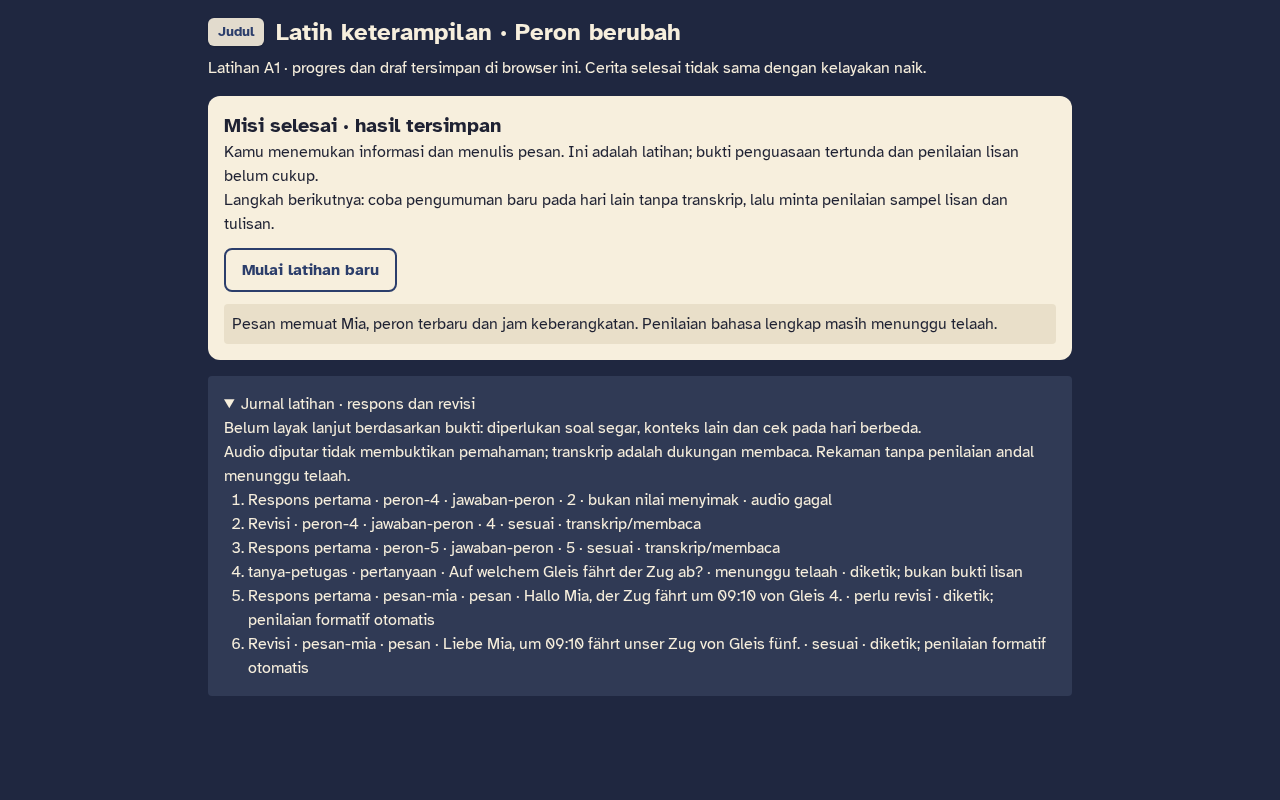
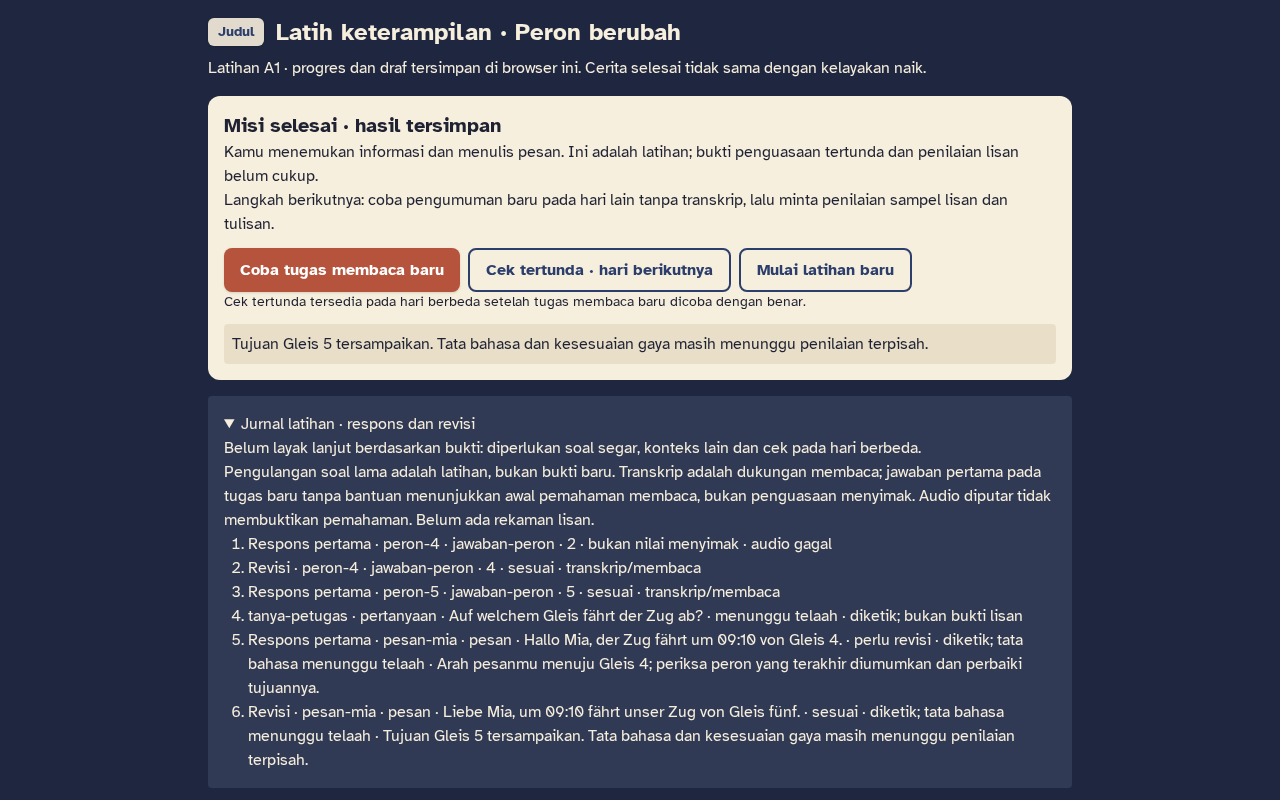
Pulihkan ruang belajar web dan tambah transfer peron

Changed region(s): [[0.1562, 0.3125, 0.8438, 0.9688]]

diff --git a/src/arena/components/StationMission.tsx b/src/arena/components/StationMission.tsx
@@ -1,4 +1,5 @@
 import { useEffect, useRef, useState } from "react";
+import { assessPlatformMessage } from "../engine/message";
 import { readiness, type Evidence } from "../engine/readiness";
 import announcement4 from "../../klab/novel/assets/voices/story/a1-ch11/speech/s02/a1-ch11-s02-a1-u11-o4-transisi-01-petugas-stasiun.mp3";
 import announcement5 from "../../klab/novel/assets/voices/story/a1-ch11/speech/s02/a1-ch11-s02-a1-u11-o4-pengumuman-variasi-01-petugas-stasiun.mp3";
@@ -6,20 +7,12 @@ import ticket from "../../../arena-pilot/media/tiket.webp";
 import board from "../../../arena-pilot/media/papan-peron.webp";
 
 // Cerita dan bukti disimpan terpisah dari progres prolog lama; rekaman tidak disimpan.
-type Phase = "ticket" | "listen4" | "listen5" | "ask" | "message" | "result";
-type Event = { kind: string; stimulus: string; value: string; at: number; support?: string; correct?: boolean };
-type Mission = { phase: Phase; answer: string; question: string; message: string; transcript: Record<string, boolean>; played: Record<string, boolean>; failed: Record<string, boolean>; events: Event[] };
+type Phase = "ticket" | "listen4" | "listen5" | "ask" | "message" | "result" | "transfer" | "delayed";
+type Event = { kind: string; stimulus: string; value: string; at: number; support?: string; correct?: boolean; reason?: string; assessment?: string };
+type Mission = { phase: Phase; answer: string; question: string; message: string; transcript: Record<string, boolean>; played: Record<string, boolean>; failed: Record<string, boolean>; events: Event[]; transferFresh?: boolean };
 const key = "lernen.station.v1";
 const fresh = (): Mission => ({phase:"ticket",answer:"",question:"",message:"",transcript:{},played:{},failed:{},events:[]});
-function load(): Mission { try { const v = JSON.parse(localStorage.getItem(key) || "null"); return v && Array.isArray(v.events) && ["ticket","listen4","listen5","ask","message","result"].includes(v.phase) ? {...fresh(), ...v} : fresh(); } catch { return fresh(); } }
-function checkMessage(s: string): string {
-  const t = s.toLocaleLowerCase("de").replace(/ß/g,"ss").replace(/\s+/g," ");
-  if (!/mia/.test(t)) return "Sebutkan penerima Mia dalam pesan.";
-  if (/\b(nicht|kein|keine)\b/.test(t) || /(gleis|bahnsteig)\s*(2|3|4|zwei|drei|vier)\b/.test(t) || /10[:.]25/.test(t)) return "Pesan memuat informasi yang bertentangan. Periksa peron terbaru dan jam keberangkatan.";
-  if (!/(gleis|bahnsteig)/.test(t) || !/(\b5\b|fünf|fuenf)/.test(t)) return "Peron terakhir adalah Gleis fünf. Periksa nomor dan sebutkan peronnya.";
-  if (!/(09[:. ]?10|9[:. ]?10|neun\s+(uhr\s+)?zehn)/.test(t)) return "Periksa jam keberangkatan pada tiket: 09:10.";
-  return "";
-}
+function load(): Mission { try { const v = JSON.parse(localStorage.getItem(key) || "null"); return v && Array.isArray(v.events) && ["ticket","listen4","listen5","ask","message","result","transfer","delayed"].includes(v.phase) ? {...fresh(), ...v} : fresh(); } catch { return fresh(); } }
 export function StationMission({ onBack, soundOn }: {onBack: () => void; soundOn: boolean}) {
   const [data, setData] = useState<Mission>(load);
   const current = useRef(data); current.current = data;
@@ -81,15 +74,30 @@ export function StationMission({ onBack, soundOn }: {onBack: () => void; soundOn
   }
   function submitMessage() {
     if (locked.current || current.current.phase!=="message" || !data.message.trim() || lastMessage.current===data.message.trim()) return;
-    lastMessage.current=data.message.trim(); locked.current=true; const problem=checkMessage(data.message); update(v=>({...v,phase:problem?"message":"result",events:[...v.events,event("pesan","pesan-mia",v.message,{support:"diketik; penilaian formatif otomatis",correct:!problem})]})); setFeedback(problem || "Pesan memuat Mia, peron terbaru dan jam keberangkatan. Penilaian bahasa lengkap masih menunggu telaah.");queueMicrotask(()=>locked.current=false);
+    lastMessage.current=data.message.trim(); locked.current=true; const assessed=assessPlatformMessage(data.message,5); const usedFeedback=data.events.some(e=>e.kind==="pesan" && e.assessment && e.assessment!=="correct"); update(v=>({...v,phase:assessed.status === "correct"?"result":"message",events:[...v.events,event("pesan","pesan-mia",v.message,{support:usedFeedback?"diketik · memakai umpan balik · tata bahasa menunggu telaah":"diketik · tanpa umpan balik · tata bahasa menunggu telaah",correct:assessed.status === "ambiguous" ? undefined : assessed.status === "correct",assessment:assessed.status,reason:assessed.reason})]})); setFeedback(assessed.reason);queueMicrotask(()=>locked.current=false);
   }
+  function openTransfer(delayed: boolean) {
+    const id=delayed ? "transfer-bus-6" : "transfer-koeln-7";
+    update(v=>({...v,phase:delayed ? "delayed" : "transfer",answer:"",transferFresh:!v.events.some(e=>e.stimulus===id && e.kind==="paparan-transfer"),events:[...v.events,event("paparan-transfer",id,"materi dibuka",{support:"membaca"})]}));setFeedback("");
+  }
+  function answerTransfer() {
+    if (locked.current || !["transfer","delayed"].includes(current.current.phase) || !data.answer.trim()) return;
+    locked.current=true; const delayed=data.phase === "delayed"; const id=delayed?"transfer-bus-6":"transfer-koeln-7"; const answer=data.answer.trim().toLowerCase(); const correct=delayed ? ["6","sechs"].includes(answer) : ["7","sieben"].includes(answer);
+    const first=!data.events.some(e=>e.kind==="jawaban-transfer" && e.stimulus===id);
+    const support=first && data.transferFresh ? "stimulus baru · membaca" : "pengulangan/latihan · membaca";
+    update(v=>({...v,phase:correct?"result":v.phase,answer:"",events:[...v.events,event("jawaban-transfer",id,answer,{correct,support,reason:correct?"Tujuan pada informasi baru terbaca benar.":"Bandingkan peron lama dengan peron yang tercantum setelah perubahan."})]}));
+    setFeedback(correct?"Jawaban tercatat. Tugas membaca ini bukan bukti menyimak atau berbicara.":"Belum sesuai. Periksa informasi terbaru, lalu coba lagi.");queueMicrotask(()=>locked.current=false);
+  }
+  const firstTransfer=data.events.find(e=>e.kind==="jawaban-transfer" && e.stimulus==="transfer-koeln-7" && e.correct);
+  const delayedDue=!!firstTransfer && new Date(firstTransfer.at).toDateString()!==new Date().toDateString() && Date.now()>firstTransfer.at;
   const learningEvidence: Evidence[] = data.events.filter(e=>e.kind === "jawaban-peron").map((e, i, all)=>({
     kind:"receptive", stimulus:e.stimulus, context:"stasiun", at:e.at,
     first:e.correct !== undefined && all.findIndex(x=>x.stimulus===e.stimulus && x.correct !== undefined)===i, correct:e.correct===true,
     support:e.support === "audio diputar" ? "none" : "transcript",
   }));
   const ready=readiness(learningEvidence,"receptive");
-  const responses=data.events.filter(e=>e.kind==="jawaban-peron" || e.kind==="pesan" || e.kind==="pertanyaan" || e.kind==="rekaman-lokal" || e.kind==="rekaman-dihapus" || e.kind==="pertanyaan-lisan");
+  const lastRecording = [...data.events].reverse().find(e=>e.kind === "rekaman-lokal" || e.kind === "rekaman-dihapus");
+  const responses=data.events.filter(e=>e.kind==="jawaban-peron" || e.kind==="pesan" || e.kind==="pertanyaan" || e.kind==="rekaman-lokal" || e.kind==="rekaman-dihapus" || e.kind==="pertanyaan-lisan" || e.kind==="jawaban-transfer");
   return <main className="station h-full overflow-y-auto bg-[#1f2740] text-[#f7efdd]"><div className="mx-auto max-w-4xl p-4">
     <header className="flex flex-wrap items-center gap-3"><button className="btn-top" onClick={()=>{stop();onBack();}}>Judul</button><h1 className="text-2xl font-black">Latih keterampilan · Peron berubah</h1></header>
     <p className="mt-2">Latihan A1 · progres dan draf tersimpan di browser ini. Cerita selesai tidak sama dengan kelayakan naik.</p>
@@ -104,10 +112,11 @@ export function StationMission({ onBack, soundOn }: {onBack: () => void; soundOn
       {data.phase === "ask" && <><h2 className="text-xl font-bold">Tanyakan kepada petugas</h2><p>Petugas: informasi terbaru ada pada pengumuman. Mintalah klarifikasi dengan sopan.</p><p className="text-sm">Rekaman disimpan hanya sementara pada perangkat dan belum dinilai; teks tidak dianggap berbicara.</p>
         <div className="my-3 flex flex-wrap gap-2"><button className="btn-secondary" onClick={recording?()=>recorder.current?.stop():startRecording}>{recording?"Hentikan rekaman":"Rekam suara"}</button>{recordingUrl && <><audio controls src={recordingUrl} aria-label="Dengar rekaman sendiri"/><button className="btn-secondary" onClick={continueWithRecording}>Lanjut dengan rekaman</button><button className="btn-secondary" onClick={()=>{clearRecording();update(v=>({...v,events:[...v.events,event("rekaman-dihapus","tanya-petugas","rekaman lokal dihapus",{support:"tidak tersedia untuk penilaian"})]}));setMicrophone("Rekaman lokal dihapus.");}}>Hapus rekaman</button></>}</div><p role="status">{microphone}</p>
         <form onSubmit={e=>{e.preventDefault();submitQuestion();}}><label className="block">Pertanyaan dalam bahasa Jerman <input className="my-2 w-full rounded border border-slate-500 bg-white p-2" value={data.question} onChange={e=>update(v=>({...v,question:e.target.value}))} /></label><button className="btn-primary">Kirim pertanyaan teks</button></form></>}
-      {data.phase === "message" && <><h2 className="text-xl font-bold">Tulis pesan kepada Mia</h2><p>Beri tahu Mia peron terakhir dan jam keberangkatan 09:10. Susun dengan kata-katamu sendiri.</p><form onSubmit={e=>{e.preventDefault();submitMessage();}}><label className="block">Pesan <textarea className="my-2 w-full rounded border border-slate-500 bg-white p-2" rows={3} value={data.message} onChange={e=>{lastMessage.current="";update(v=>({...v,message:e.target.value}));}}/></label><button className="btn-primary">Periksa dan kirim pesan</button></form></>}
-      {data.phase === "result" && <>{recordingUrl && <div><p>Rekaman sementara masih tersedia selama halaman ini terbuka.</p><audio controls src={recordingUrl} aria-label="Dengar rekaman sendiri"/><button className="btn-secondary" onClick={()=>{clearRecording();update(v=>({...v,events:[...v.events,event("rekaman-dihapus","tanya-petugas","rekaman lokal dihapus",{support:"tidak tersedia untuk penilaian"})]}));}}>Hapus rekaman</button></div>}<h2 className="text-xl font-bold">Misi selesai · hasil tersimpan</h2><p>Kamu menemukan informasi dan menulis pesan. Ini adalah latihan; bukti penguasaan tertunda dan penilaian lisan belum cukup.</p><p>Langkah berikutnya: coba pengumuman baru pada hari lain tanpa transkrip, lalu minta penilaian sampel lisan dan tulisan.</p><button className="btn-secondary mt-3" onClick={()=>{stop();update(v=>({...fresh(),events:v.events}));setFeedback("");}}>Mulai latihan baru</button></>}
+      {data.phase === "message" && <><h2 className="text-xl font-bold">Tulis pesan kepada Mia</h2><p>Petugas: „Der Zug fährt heute von Gleis fünf ab.“ (Kereta hari ini berangkat dari peron lima.) Beri tahu Mia peron terakhir yang diumumkan. Pengumuman tidak menyebut jam; tiket menunjukkan 09:10. Susun dengan kata-katamu sendiri.</p><form onSubmit={e=>{e.preventDefault();submitMessage();}}><label className="block">Pesan <textarea className="my-2 w-full rounded border border-slate-500 bg-white p-2" rows={3} value={data.message} onChange={e=>{lastMessage.current="";update(v=>({...v,message:e.target.value}));}}/></label><button className="btn-primary">Periksa dan kirim pesan</button></form></>}
+      {(data.phase === "transfer" || data.phase === "delayed") && <><h2 className="text-xl font-bold">{data.phase === "delayed" ? "Cek tertunda · jadwal bus" : "Tugas baru · sambungan lain"}</h2><p>Ini tugas membaca, bukan pengumuman audio. Jawaban pertama dan pengulangan dicatat terpisah.</p><p lang="de" className="my-3 rounded border border-[#2c3e6b]/30 p-3">{data.phase === "delayed" ? "Bus nach Bonn: Nicht Steig 3. Heute fährt der Bus von Steig 6 ab." : "Zug nach Köln: Gleiswechsel. Der Zug fährt heute von Gleis 7 ab, nicht von Gleis 1."}</p><form onSubmit={e=>{e.preventDefault();answerTransfer();}}><label>Nomor peron atau halte baru <input aria-label="Jawaban tugas baru" className="rounded border border-slate-500 bg-white p-2" value={data.answer} onChange={e=>update(v=>({...v,answer:e.target.value}))}/></label><button className="btn-primary ml-2">Periksa tugas</button></form></>}
+      {data.phase === "result" && <>{recordingUrl && <div><p>Rekaman sementara masih tersedia selama halaman ini terbuka.</p><audio controls src={recordingUrl} aria-label="Dengar rekaman sendiri"/><button className="btn-secondary" onClick={()=>{clearRecording();update(v=>({...v,events:[...v.events,event("rekaman-dihapus","tanya-petugas","rekaman lokal dihapus",{support:"tidak tersedia untuk penilaian"})]}));}}>Hapus rekaman</button></div>}<h2 className="text-xl font-bold">Misi selesai · hasil tersimpan</h2><p>Kamu menemukan informasi dan menulis pesan. Ini adalah latihan; bukti penguasaan tertunda dan penilaian lisan belum cukup.</p><p>Langkah berikutnya: coba pengumuman baru pada hari lain tanpa transkrip, lalu minta penilaian sampel lisan dan tulisan.</p><div className="flex flex-wrap gap-2"><button className="btn-primary mt-3" onClick={()=>openTransfer(false)}>{data.events.some(e=>e.stimulus==="transfer-koeln-7") ? "Ulangi tugas membaca" : "Coba tugas membaca baru"}</button><button className="btn-secondary mt-3" disabled={!delayedDue} onClick={()=>openTransfer(true)}>Cek tertunda · hari berikutnya</button><button className="btn-secondary mt-3" onClick={()=>{stop();update(v=>({...fresh(),events:v.events}));setFeedback("");}}>Mulai latihan baru</button></div><p className="text-sm">{delayedDue ? "Cek tertunda tersedia." : "Cek tertunda tersedia pada hari berbeda setelah tugas membaca baru dicoba dengan benar."}</p></>}
       {feedback && <p role="status" className="mt-3 rounded bg-[#e9dfc9] p-2">{feedback}</p>}
     </section>
-    <details className="mt-4 rounded bg-[#303a55] p-4"><summary>Jurnal latihan · respons dan revisi</summary><p>{ready ? "Bukti menyimak awal memenuhi ambang pilot; keputusan tetap perlu ditinjau." : "Belum layak lanjut berdasarkan bukti: diperlukan soal segar, konteks lain dan cek pada hari berbeda."}</p><p>Audio diputar tidak membuktikan pemahaman; transkrip adalah dukungan membaca. Rekaman tanpa penilaian andal menunggu telaah.</p>{responses.length===0?<p>Belum ada respons.</p>:<ol className="list-decimal pl-6">{responses.map((e,i)=><li key={i}>{(e.kind === "jawaban-peron" || e.kind === "pesan") && (responses.slice(0,i).some(old=>old.kind===e.kind && old.stimulus===e.stimulus) ? "Revisi · " : "Respons pertama · ")}{e.stimulus} · {e.kind} · {e.value} · {e.correct===undefined?(e.support === "audio gagal" || e.support === "audio belum diputar" ? "bukan nilai menyimak" : "menunggu telaah"):e.correct?"sesuai":"perlu revisi"} · {e.support}</li>)}</ol>}</details>
+    <details className="mt-4 rounded bg-[#303a55] p-4"><summary>Jurnal latihan · respons dan revisi</summary><p>{ready ? "Bukti menyimak awal memenuhi ambang pilot; keputusan tetap perlu ditinjau." : "Belum layak lanjut berdasarkan bukti: diperlukan soal segar, konteks lain dan cek pada hari berbeda."}</p><p>Pengulangan soal lama adalah latihan, bukan bukti baru. Transkrip adalah dukungan membaca; jawaban pertama pada tugas baru tanpa bantuan menunjukkan awal pemahaman membaca, bukan penguasaan menyimak. Audio diputar tidak membuktikan pemahaman. {!lastRecording ? "Belum ada rekaman lisan." : lastRecording.kind === "rekaman-dihapus" ? "Rekaman lisan telah dihapus; rekam ulang untuk telaah." : recordingUrl ? "Rekaman lisan: direkam, menunggu penilaian." : "Rekaman pernah dibuat, tetapi file sementara tidak tersedia setelah keluar; rekam ulang untuk penilaian."}</p>{responses.length===0?<p>Belum ada respons.</p>:<ol className="list-decimal pl-6">{responses.map((e,i)=><li key={i}>{(e.kind === "jawaban-peron" || e.kind === "pesan") && (responses.slice(0,i).some(old=>old.kind===e.kind && old.stimulus===e.stimulus) ? "Revisi · " : "Respons pertama · ")}{e.stimulus} · {e.kind} · {e.value} · {e.correct===undefined?(e.support === "audio gagal" || e.support === "audio belum diputar" ? "bukan nilai menyimak" : "menunggu telaah"):e.correct?"sesuai":"perlu revisi"} · {e.support}{e.reason && ` · ${e.reason}`}</li>)}</ol>}</details>
   </div></main>;
 }

diff --git a/src/arena/components/WebLearning.tsx b/src/arena/components/WebLearning.tsx
@@ -1,0 +1,37 @@
+import { useMemo, useRef, useState } from "react";
+import { READINGS } from "../data";
+import type { Route } from "../../klab/routes";
+
+type Result = { attempts: number; correct: number; lastAt: number };
+type Progress = Record<string, Result>;
+const STORAGE = "lernen.web-reading.v1";
+function load(): Progress { try { const v=JSON.parse(localStorage.getItem(STORAGE) ?? "{}"); return v && typeof v === "object" && !Array.isArray(v) ? v : {}; } catch { return {}; } }
+export function WebLearning({ onBack, route }: {onBack:()=>void; route?:Route}) {
+  const [progress,setProgress]=useState(load);
+  const [level,setLevel]=useState("A1");
+  const [id,setId]=useState<number | null>(route?.name === "reader" ? route.textId : null);
+  const [choice,setChoice]=useState("");
+  const [feedback,setFeedback]=useState("");
+  const lastAnswer=useRef("");
+  const text=READINGS.find(t=>t.textId===id);
+  const sentence=text?.sentences.find(s=>s.de && s.id);
+  const options=useMemo(()=>{
+    if (!text || !sentence) return [];
+    const wrong=READINGS.filter(r=>r.level===text.level && r.textId!==text.textId).flatMap(r=>r.sentences).find(s=>s.id && s.id!==sentence.id)?.id;
+    return wrong ? [sentence.id,wrong].sort((a,b)=>a.localeCompare(b)) : [sentence.id];
+  },[text,sentence]);
+  const answer=()=>{
+    if (!text || !sentence || !choice || lastAnswer.current === `${id}:${choice}`) return;
+    lastAnswer.current=`${id}:${choice}`;
+    const correct=choice===sentence.id;
+    const prev=progress[String(text.textId)] ?? {attempts:0,correct:0,lastAt:0};
+    const next={...progress,[text.textId]:{attempts:prev.attempts+1,correct:prev.correct+(correct?1:0),lastAt:Date.now()}};
+    try {localStorage.setItem(STORAGE,JSON.stringify(next));setProgress(next);setFeedback(correct?"Benar. Ini latihan membaca, bukan bukti kelulusan.":"Belum tepat. Baca kembali kalimat dan terjemahannya, lalu coba lagi.");}
+    catch {setFeedback("Progres tidak dapat disimpan di browser ini.");}
+  };
+  return <main className="h-dvh overflow-y-auto bg-[#1f2740] p-4 text-[#f7efdd]"><div className="mx-auto max-w-4xl">
+    <header className="flex flex-wrap items-center gap-3"><button className="rounded bg-[#f7efdd] px-3 py-2 font-bold text-[#2c3e6b]" onClick={onBack}>Kembali ke menu</button><h1 className="text-2xl font-black">Ruang belajar A1–B2 · Browser</h1></header>
+    <p className="my-3">Bacaan dari koleksi Lernen dan latihan arti satu kalimat. Ini bukan seluruh pelajaran atau simulasi ujian; progres disimpan hanya di browser ini, terpisah dari SQLite Windows.</p>
+    {!text ? <><label>Level <select className="rounded bg-white p-2 text-[#1f2233]" value={level} onChange={e=>setLevel(e.target.value)}>{["A1","A2","B1","B2"].map(v=><option key={v}>{v}</option>)}</select></label><p className="my-2">{READINGS.filter(r=>r.level===level).length} bacaan tersedia · {Object.keys(progress).length} bacaan pernah dilatih</p><ul className="grid gap-2 sm:grid-cols-2">{READINGS.filter(r=>r.level===level).map(r=><li key={r.textId}><button className="w-full rounded border border-[#f7efdd]/40 bg-[#303a55] p-3 text-left" onClick={()=>{setId(r.textId);setChoice("");setFeedback("");lastAnswer.current="";}}><strong>{r.title}</strong><br/><span>{r.level} · {r.sentences.length} kalimat · {progress[String(r.textId)] ? `${progress[String(r.textId)].correct}/${progress[String(r.textId)].attempts} jawaban benar` : "belum dilatih"}</span></button></li>)}</ul></> : <section className="rounded-xl bg-[#f7efdd] p-4 text-[#1f2233]"><button className="rounded border border-[#2c3e6b] px-3 py-1" onClick={()=>{setId(null);setFeedback("");}}>‹ Daftar bacaan</button><h2 className="my-3 text-xl font-bold">{text.title} · {text.level}</h2><ul>{text.sentences.map((s,i)=><li key={i} className="mb-2"><span lang="de">{s.de}</span><details><summary>Arti</summary>{s.id}</details></li>)}</ul>{sentence && <fieldset className="mt-4 border-t border-[#2c3e6b]/30 pt-3"><legend className="font-bold">Latihan membaca</legend><p>Apakah arti kalimat <span lang="de">„{sentence.de}“</span>?</p>{options.map(o=><label key={o} className="my-2 block"><input type="radio" name="reading-answer" checked={choice===o} onChange={()=>{setChoice(o);setFeedback("");lastAnswer.current="";}}/> {o}</label>)}<button disabled={!choice} className="rounded bg-[#b5533c] px-3 py-2 font-bold text-white disabled:opacity-50" onClick={answer}>Periksa jawaban</button><p role="status">{feedback}</p><p>Riwayat latihan: {progress[String(text.textId)]?.correct ?? 0} benar dari {progress[String(text.textId)]?.attempts ?? 0} jawaban.</p></fieldset>}</section>}
+  </div></main>;
+}

diff --git a/src/arena/engine/message.ts b/src/arena/engine/message.ts
@@ -1,0 +1,18 @@
+// Formatives Heuristik-Modell, kein Ersatz für eine menschliche Sprachprüfung.
+export type MessageAssessment = { status: "correct" | "wrong" | "ambiguous"; reason: string };
+export function assessPlatformMessage(text: string, target: number): MessageAssessment {
+  const s = text.toLocaleLowerCase("de").normalize("NFC").replace(/ß/g,"ss").replace(/\bfuenf\b/g,"fünf");
+  const words: Record<string,number> = {zwei:2,drei:3,vier:4,fünf:5,sechs:6,sieben:7,acht:8};
+  const mentions=[...s.matchAll(/\b(?:gleis|bahnsteig)\s*(?:nummer\s*)?(\d+|zwei|drei|vier|fünf|sechs|sieben|acht)\b/g)].map(m=>{
+    const prefix=s.slice(Math.max(0,m.index!-30),m.index!);
+    const clause=prefix.split(/[.!?;,]|\b(?:sondern|aber)\b/).pop() ?? "";
+    return {number:words[m[1]] ?? Number(m[1]), negated:/\b(?:nicht|kein|keine|keinem|keinen)\b/.test(clause)};
+  });
+  const positive=mentions.filter(m=>!m.negated).map(m=>m.number);
+  if (!mentions.length || !positive.length) return {status:"ambiguous",reason:"Peron mana yang harus Mia tuju? Jelaskan dengan „von Gleis …“ atau „zu Gleis …“."};
+  if (new Set(positive).size>1) return {status:"ambiguous",reason:"Kamu menyebut beberapa peron. Mana tujuan terbaru? Jelaskan juga peron lama yang tidak berlaku."};
+  const directed=/\b(?:von|vom|auf|zu|zum|nach|an|ab)\s+(?:dem\s+)?(?:gleis|bahnsteig)\b/.test(s) || /\b(?:gleis|bahnsteig)\s*(?:nummer\s*)?(?:\d+|zwei|drei|vier|fünf|sechs|sieben|acht)\s+(?:ist|gilt|stimmt)\b/.test(s);
+  if (!directed) return {status:"ambiguous",reason:"Kamu menyebut peron. Apakah Mia harus ke sana atau keretanya berangkat dari sana? Jelaskan singkat."};
+  if (positive[0]!==target) return {status:"wrong",reason:`Arah pesanmu menuju Gleis ${positive[0]}; periksa peron yang terakhir diumumkan dan perbaiki tujuannya.`};
+  return {status:"correct",reason:`Tujuan Gleis ${target} tersampaikan. Tata bahasa dan kesesuaian gaya masih menunggu penilaian terpisah.`};
+}

diff --git a/src/DesktopEntry.tsx b/src/DesktopEntry.tsx
@@ -1,5 +1,7 @@
 import { useState } from "react";
 import Desktop from "./App";
+import { isTauri } from "@tauri-apps/api/core";
+import { WebLearning } from "./arena/components/WebLearning";
 import Arena from "./arena/App";
 import { navigation } from "./app/navigation";
 import type { Route } from "./klab/routes";
@@ -11,6 +13,7 @@ export default function DesktopEntry() {
   const [desktop, setDesktop] = useState<{ route?: Route } | null>(null);
 
   if (desktop) {
+    if (!isTauri()) return <WebLearning route={desktop.route} onBack={() => setDesktop(null)} />;
     return (
       <div className="relative h-full w-full">
         <Desktop />

diff --git a/docs/arena/HASIL-PILOT-v2.md b/docs/arena/HASIL-PILOT-v2.md
@@ -1,0 +1,50 @@
+# Hasil kandidat PR #4 · kelanjutan dari ef47c5c
+
+HEAD awal `ef47c5c7653a4c897be4c903bc6828338e5c87fc`. Hasil diuji: commit yang memuat laporan ini, lihat SHA head PR. Jalur normal `src/main.tsx → DesktopEntry → arena/App.tsx`. Tidak ada basis data profil uji atau rekaman suara pribadi dalam Git.
+
+## Akar masalah ruang belajar dan perbaikannya
+
+Pada pembanding `ef47c5c`, judul → **Ruang belajar A1–B2** memanggil `DesktopEntry → LegacyApp → initializeDatabase → seedLoader/getDb → Database.load("sqlite:lernen.db")`; plugin SQLite Tauri tidak tersedia di browser dan FatalDatabase muncul. [Sebelum](bukti/ruang-sebelum.png) · [sesudah](bukti/ruang-sesudah.png).
+
+Sekarang `DesktopEntry` memilih ruang belajar web hanya saat `isTauri()` salah; Tauri tetap memakai `LegacyApp`/SQLite, tanpa mengganti migrasi atau database. Jalur web memakai 67 bacaan yang ada (`src/arena/data/readings.json`: A1 18, A2 23, B1 13, B2 13), menampilkan bacaan dan latihan arti satu kalimat per bacaan. Riwayat jawaban pada `lernen.web-reading.v1` di localStorage asal browser, terpisah dari profil prolog dan SQLite. Ini **bukan** implementasi penuh pelajaran A1–B2 atau ukuran kelulusan; bacaan dan latihan teks dapat dibaca dengan bantuan. Penyimpanan tidak disinkronkan antar perangkat.
+
+Browser Chromium 153: profil baru → ruang belajar → `Hallo, ich bin Anna` → jawaban benar → menu → reload → ruang belajar menunjukkan **1/1**. Profil lama sintetis tanpa avatar tetap muncul dan progres bacaan tetap terbaca. Browser `pageerror` nihil pada tes tersebut. Windows/SQLite tidak dijalankan.
+
+## Cara mencoba dari judul
+
+Node 22+: `corepack pnpm install --frozen-lockfile`, `corepack pnpm dev --host 0.0.0.0`, buka preview. Di menu:
+
+1. **Ruang belajar A1–B2** → pilih level dan bacaan → pilih arti → Periksa jawaban → Kembali ke menu. Setelah refresh masuk lagi untuk melihat riwayat.
+2. **Mulai cerita** → nama/avatar → Dengar suara → Mulai prolog → Periksa catatan → Duduk sebentar → jawab tutor → Buka pintu → jawab Mia. Jurnal dan riwayat ada di bilah atas; reload lalu Lanjutkan.
+3. **Latih keterampilan · Peron berubah** → baca tiket → dengar pengumuman/opsional transkrip → jawab peron → situasi kedua → klarifikasi petugas dengan rekaman atau teks → pesan Mia → jurnal → **Coba tugas membaca baru**. Contoh respons ambigu `Mia, Gleis 2 und Gleis 5.` meminta klarifikasi; `Mia, bitte geh zu Gleis 2.` diberi koreksi; `Mia, nicht von Gleis 2, sondern von Gleis fünf fährt der Zug ab.` menyampaikan tujuan. Umpan balik dan revisi disimpan; tata bahasa tetap menunggu telaah.
+
+Kedua pengumuman hanya menyatakan peron terbaru, bukan jam. Tiket latihan secara terpisah menyatakan 09:10; pemeriksa tidak lagi mensyaratkan jam yang tidak didengar. Penilai adalah aturan terbatas, bukan pemahaman bahasa umum: frasa yang tidak dikenali diminta klarifikasi, dan kemungkinan salah klasifikasi tetap perlu diuji/ditelaah pengajar. Tes `node --experimental-strip-types scripts/arena/test-message.mjs` mencakup angka/kata, urutan lain, negasi peron lama, dua peron ambigu dan arah salah.
+
+## Transfer dan cek tertunda
+
+Tugas teks baru tentang sambungan Köln memakai peron 7 versus peron lama 1; ini bukti **membaca**, bukan audio atau berbicara. Identitas paparan dan jawaban pertama disimpan. Ulangan identik dilabeli latihan, sedangkan respons pertama benar pada stimulus baru dilabeli stimulus baru. Transkrip pada pengumuman 4/5 tetap dicatat sebagai bantuan membaca, bukan bukti mendengar mandiri. [Contoh jurnal anonim](bukti/transfer-jurnal.png). Satu cek tertunda baru tentang bus/Steig 6 tersedia setelah hari lokal berbeda dari keberhasilan tugas awal; tes menggunakan jam terkendali maju dua hari. Aturan 4/5, konteks, hari, dan rubrik di `readiness.ts` tetap konservatif: dua soal transfer tidak cukup untuk menyatakan layak naik. Jadwal 3/7/21 hari dan bank stimulus baru yang memadai **belum tersedia**.
+
+## Media dan penguji
+
+Pencarian katalog transkrip (`speech-catalog`, `story-media.generated`, indeks) menemukan pengumuman sintetis peron lima `Achtung, der Zug fährt heute von Gleis fünf ab.`, bukan respons dialog petugas yang persis sama. Pesan menampilkan teks petugas yang benar tanpa memutar audio peron empat. **Permintaan aset:** karakter `petugas-stasiun`; naskah `Der Zug fährt heute von Gleis fünf ab.`; arti `Kereta hari ini berangkat dari peron lima.`; titik pemutaran: setelah pemain meminta klarifikasi, sebelum menulis kepada Mia. Perlu suara berlisensi dan kecocokan transkrip ditinjau, lalu pemutaran diuji.
+
+Browser mengirim event `playing` pada dua klip pengumuman dan avatar (bukan bukti didengar manusia). Fake microphone diuji rekam–play–hapus; setelah reload hanya riwayat peristiwa tersisa dan file sementara tidak tersedia. Penguji nyata: buka alur dari judul, dengar empat contoh dan dua pengumuman, tolak izin lalu uji jalur teks, izinkan mikrofon dan rekam/dengar/hapus. Windows offline: di profil terisolasi dengan WebView2, MSVC dan Rust jalankan `corepack pnpm tauri build`, cabut jaringan dan ulangi alur, pulihkan profil dan periksa database. **Belum diuji di Windows atau oleh pendengar manusia.**
+
+## U01–U12 terbaru
+
+| Kasus | Status | Bukti dan sisa |
+|---|---|---|
+| U01 | Lulus | Judul, mulai/reload/lanjut; profil lama sintetis diuji. |
+| U02 | Parsial | Empat potret dan ID terdekode, `playing` dan penghentian sampel; manusia belum mendengar. |
+| U03 | Parsial | Salam/nama/kalimat/bantuan diuji; belum semua kombinasi dan akhir prolog ditinjau. |
+| U04 | Parsial | Replay, pergantian penutur, akhir klip kembali diam, riwayat, mode senyap/minim gerak diuji pada browser; efek dan Windows masih perlu pengujian. |
+| U05 | Parsial | Respons pertama dan revisi, peron 4/5 dan no-spoiler sebelum respons diuji; belum ada kohor. |
+| U06 | Parsial | Klip `playing`, transkrip dan abort terpisah; suara belum didengar manusia. |
+| U07 | Parsial | Mikrofon simulasi rekam–dengar–hapus dan penolakan diuji; mikrofon nyata/Windows belum diuji. |
+| U08 | Parsial | Sepuluh tes aturan pesan dan alur ambigu→salah→revisi berhasil; penilaian semantik/gramatika belum dikalibrasi oleh pengajar. |
+| U09 | Parsial | Reload draf, hasil, dan double click diuji; belum semua giliran dan backend desktop. |
+| U10 | Parsial | Transfer membaca baru, ulangan, transkrip dan cek berikut hari diuji dengan jam simulasi; jadwal penuh dan bank transfer empat keterampilan belum ada. |
+| U11 | Parsial | Alur stasiun selesai dengan Tab/Enter di 900×600; Escape/fokus, senyap/minim gerak diuji; audit aksesibilitas penuh belum. |
+| U12 | Parsial | Ruang baca browser, latihan dan reload pada profil baru/lama berhasil; seluruh materi A1–B2, migrasi lintas backend dan Windows offline belum diuji. |
+
+Build `corepack pnpm build`, audit 125 indeks dan tes `test-message.mjs`, `test-evidence.mjs`, `test-readiness.mjs` lulus. Materi lanjutan, aplikasi siap rilis, dan dampak hasil belajar adalah tiga hal berbeda: seluruh A1–B2 belum tuntas, aplikasi masih kandidat pilot, dan target kelulusan Goethe >80% belum terukur tanpa data kohor.

diff --git a/docs/arena/HASIL-PILOT.md b/docs/arena/HASIL-PILOT.md
@@ -1,3 +1,5 @@
+> **Status terbaru:** lihat [hasil kelanjutan dari ef47c5c](HASIL-PILOT-v2.md); laporan ini mempertahankan bukti pembanding.
+
 # Pilot · hasil browser dan langkah uji
 
 Perubahan ini dilanjutkan dari HEAD `11eb96204ba17b7769100aa338a7686ce2df7853`, pada PR #4 berbasis `pilot-lernen-v16`. SHA yang diuji adalah commit yang memuat dokumen dan gambar ini (lihat head PR). Jalur pengguna: `src/main.tsx → DesktopEntry → arena/App.tsx`; misi stasiun kini dipasang di menu judul aplikasi itu, bukan entry demo. Browser: Chromium 153 headless Linux, profil lokal fiktif terisolasi, Vite. Gambar dan log di bawah dibuat dari perubahan kode yang sama; tidak ada rekaman suara pengguna di repositori.
